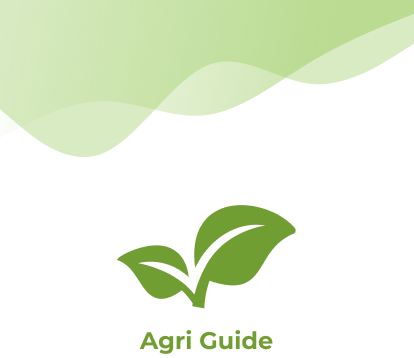
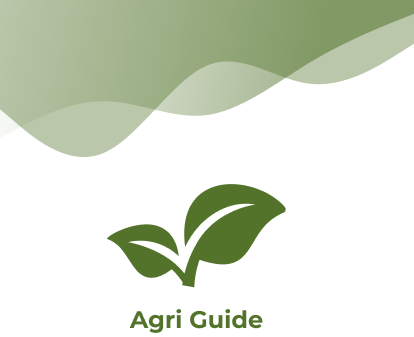
updated some assets and app theme

diff --git a/lib/core/app_theme.dart b/lib/core/app_theme.dart
@@ -3,19 +3,19 @@ import 'package:flutter/material.dart';
 /// A class conating all theming for the application
 class AppTheme {
   // Colors
-  static Color primaryColor = Color(0xFFB4FF7B);
+  static Color primaryColor = Color(0xFFA1CE69);
 
   static Color chipBackground = Color(0xFF8CC63E).withOpacity(0.25);
 
   static Color loginBackground = Color(0xFF8CC63E).withOpacity(0.85);
 
-  static Color secondaryColor = Color(0xFF2BB622);
+  static Color secondaryColor = Color(0xFF53732B);
 
-  static Color accentColor = Color(0xFF2BB622);
+  static Color accentColor = Color(0xFF53732B);
 
   static Color navigationSelectedColor = Color(0xFF1D5B70);
 
-  static Color buttonActiveColor = Color(0xFF2BB622);
+  static Color buttonActiveColor = Color(0xFF53732B);
 
   static Color buttonDeactiveColor = Colors.grey;
 
